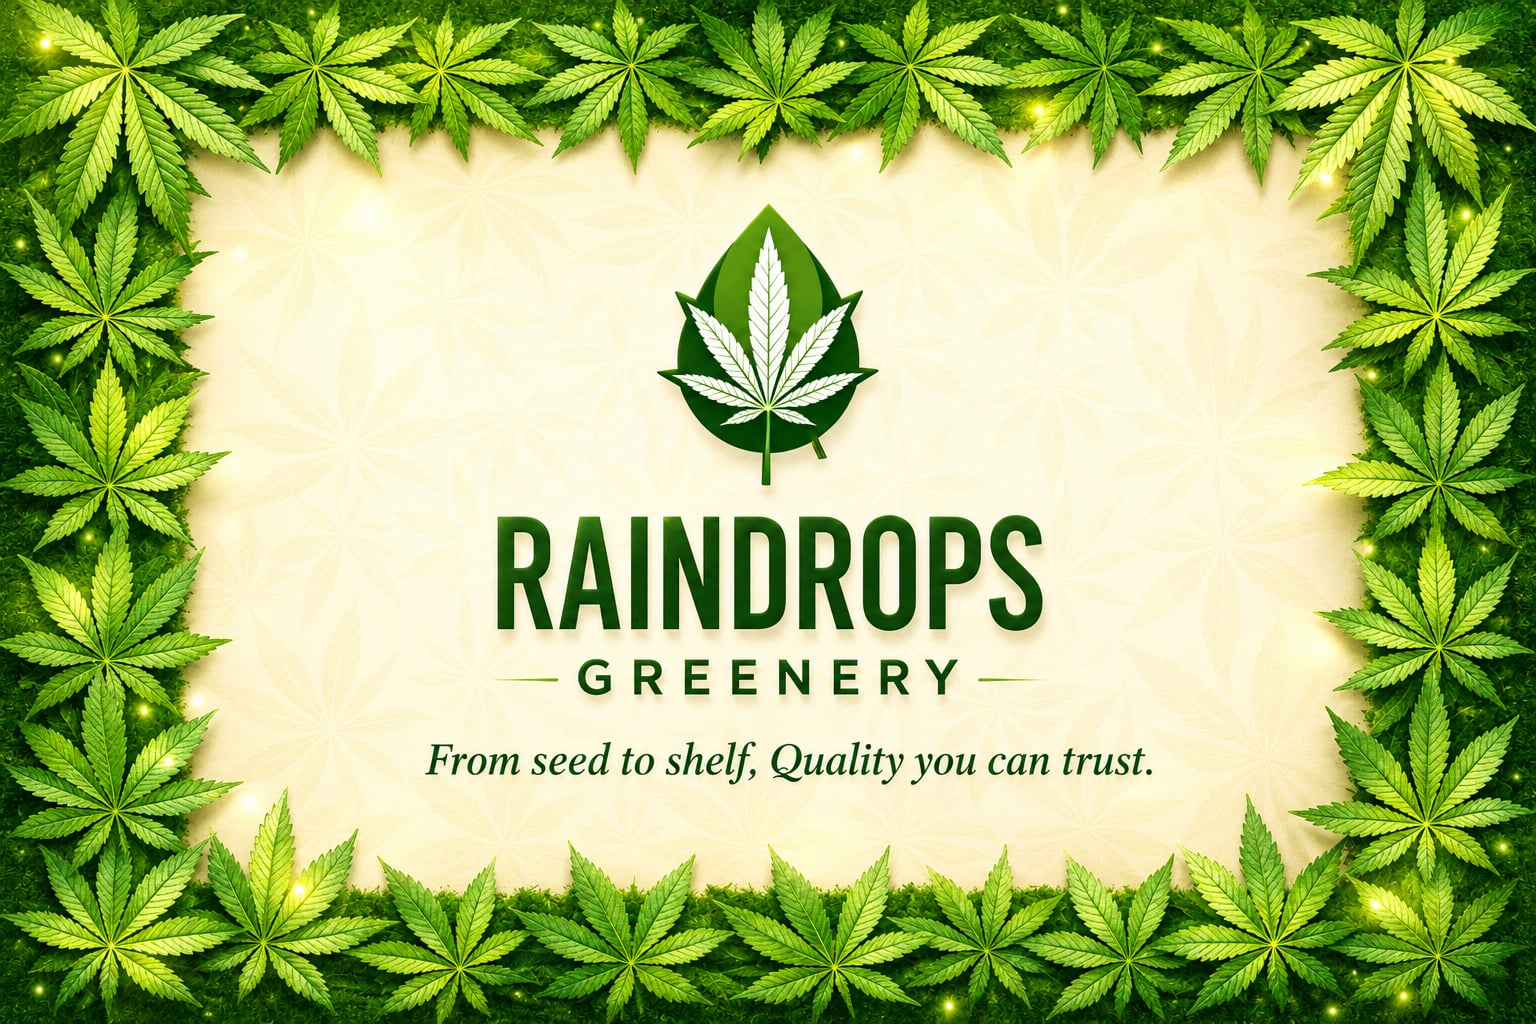
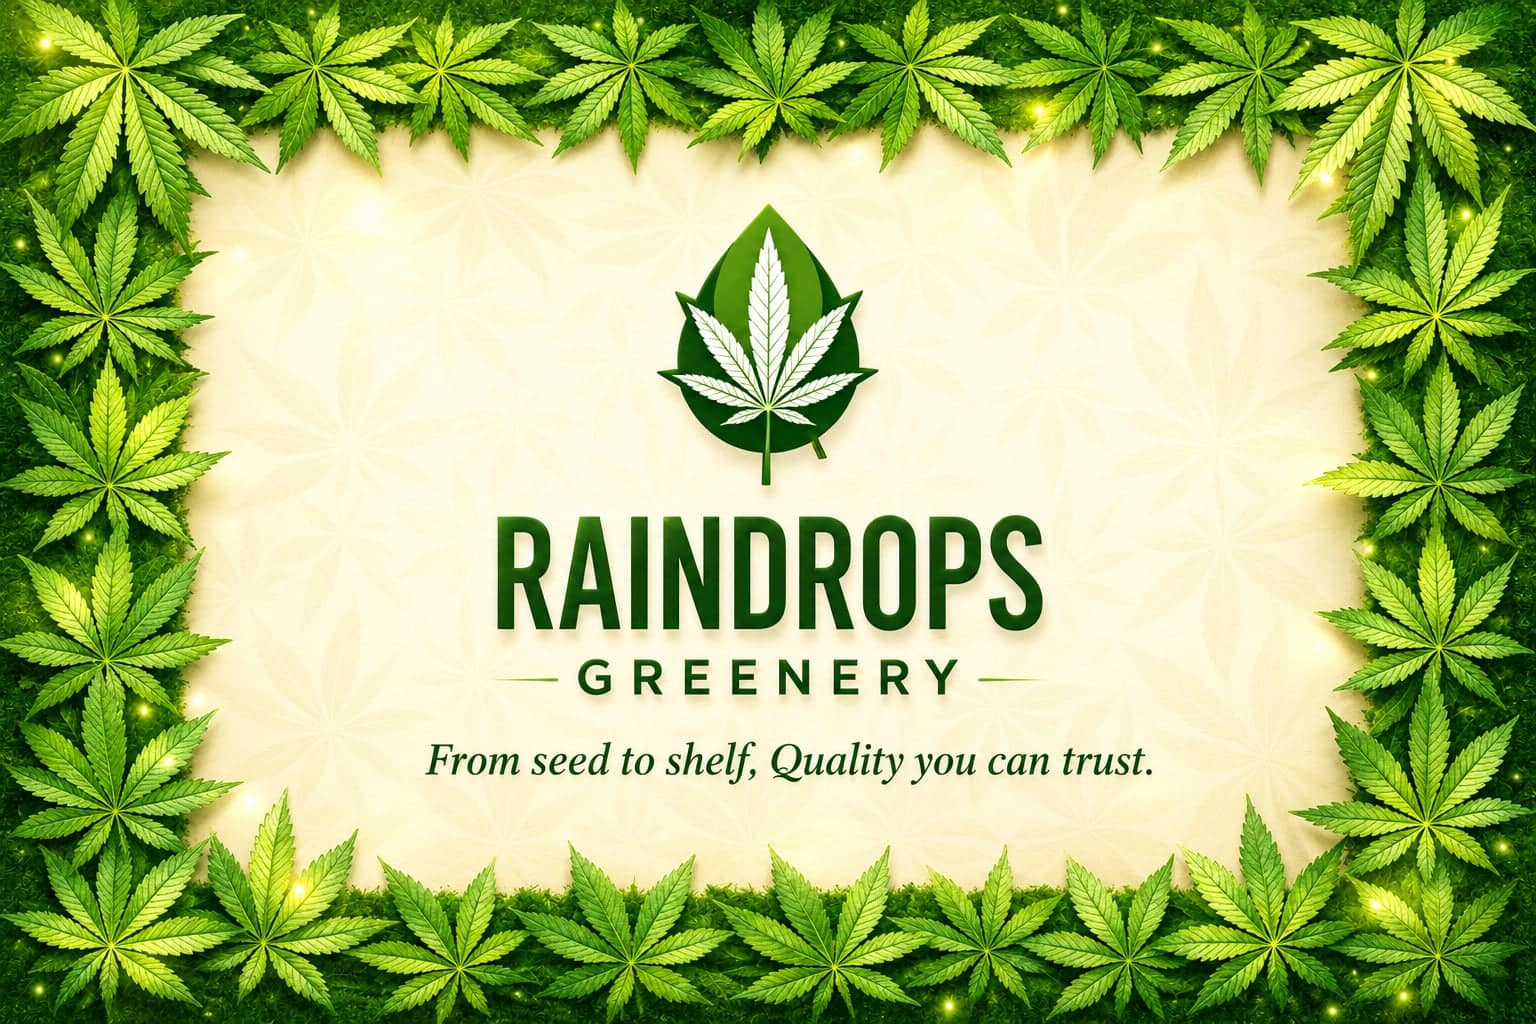
Pre-launch QA polish: performance + accessibility
From the pre-launch QA sweep — both approved optional bundles. No blockers.

Performance / smoothness:
- Compress heavy hero images: banner-drops1.jpg 360->230KB (-36%),
  heroPhoto.jpg (age-gate backdrop) 616->251KB (-59%) via sharp/mozjpeg.
- Drop wasted `priority` on the age-gate background image (it's a dim
  opacity-0.4 backdrop, and a no-op preload for returning visitors who skip
  the gate).
- Release the compositor layer on the ~12 scroll-reveal blocks after their
  one-shot reveal (will-change: auto) instead of pinning it permanently.
- Pause the hero Ken Burns drift while the hero is scrolled off-screen
  (IntersectionObserver -> .hero-paused), so there's no continuous GPU work
  (and on mobile, no permanently promoted full-viewport layer) when unseen.
- Remove a dead/misdirected DNS-prefetch (pointed at a host that doesn't
  serve product images; next/image proxies them same-origin anyway).
- Fix the menu free-gift pill so it can't wrap into a tall stadium capsule
  on small phones (rounded-2xl + items-start + tighter copy).

Accessibility (WCAG):
- New shared hooks/useModalA11y.ts: focus-into-dialog on open, Tab/Shift+Tab
  focus trap, Escape-to-close, body-scroll lock, and focus restore on close.
- Wired into the age gate (Escape only on the optional subscribe step — the
  21+ challenge stays non-dismissable), the product detail dialog, and the
  coverage cluster modal. Product dialog also gets role=dialog/aria-modal.
  (WCAG 2.1.1, 2.4.3, 4.1.2.)
[…]

diff --git a/hooks/useModalA11y.ts b/hooks/useModalA11y.ts
@@ -1,0 +1,106 @@
+'use client';
+
+import { useEffect, useRef, type RefObject } from 'react';
+
+const FOCUSABLE_SELECTOR =
+  'a[href],button:not([disabled]),input:not([disabled]),select:not([disabled]),textarea:not([disabled]),[tabindex]:not([tabindex="-1"])';
+
+/**
+ * Modal accessibility primitives, shared by the age gate, product detail
+ * dialog, and coverage cluster modal (pre-launch QA finding).
+ *
+ * When `active` is true it:
+ *   - moves focus into the dialog container on open;
+ *   - traps Tab / Shift+Tab inside the dialog;
+ *   - closes on Escape via `onEscape` (omit to disable — e.g. the age-gate
+ *     challenge, which must not be dismissable);
+ *   - optionally locks body scroll (default on);
+ *   - restores focus to the previously-focused element on close.
+ *
+ * `onEscape` is read through a ref so passing a fresh inline arrow each render
+ * does NOT re-run the effect (which would otherwise steal focus on every
+ * parent re-render). The effect re-runs only when `active`/`lockScroll` change.
+ *
+ * The container element must be focusable — give it `tabIndex={-1}`.
+ */
+export function useModalA11y(
+  active: boolean,
+  containerRef: RefObject<HTMLElement | null>,
+  options: { onEscape?: () => void; lockScroll?: boolean } = {}
+) {
+  const { onEscape, lockScroll = true } = options;
+  const onEscapeRef = useRef(onEscape);
+
+  useEffect(() => {
+    onEscapeRef.current = onEscape;
+  }, [onEscape]);
+
+  useEffect(() => {
+    if (!active || typeof document === 'undefined') return;
+    const container = containerRef.current;
+    const previouslyFocused = document.activeElement as HTMLElement | null;
+
+    const getFocusable = (): HTMLElement[] => {
+      if (!container) return [];
+      return Array.from(container.querySelectorAll<HTMLElement>(FOCUSABLE_SELECTOR)).filter(
+        (el) => el.offsetParent !== null
+      );
+    };
+
+    // Focus the dialog container itself (a screen reader then announces its
+    // label, and the first Tab lands on the first control). rAF so entrance
+    // animations have laid the element out before we move focus.
+    const raf = requestAnimationFrame(() => {
+      (container ?? getFocusable()[0])?.focus?.();
+    });
+
+    const onKeyDown = (event: KeyboardEvent) => {
+      if (event.key === 'Escape') {
+        if (onEscapeRef.current) {
+          event.preventDefault();
+          event.stopPropagation();
+          onEscapeRef.current();
+        }
+        return;
+      }
+      if (event.key !== 'Tab' || !container) return;
+      const list = getFocusable();
+      if (list.length === 0) {
+        event.preventDefault();
+        container.focus();
+        return;
+      }
+      const first = list[0];
+      const last = list[list.length - 1];
+      const activeEl = document.activeElement;
+      if (event.shiftKey) {
+        if (activeEl === first || activeEl === container || !container.contains(activeEl)) {
+          event.preventDefault();
+          last.focus();
+        }
+      } else if (activeEl === last) {
+        event.preventDefault();
+        first.focus();
+      }
+    };
+
+    document.addEventListener('keydown', onKeyDown, true);
+
+    let prevOverflow: string | undefined;
+    if (lockScroll) {
+      prevOverflow = document.body.style.overflow;
+      document.body.style.overflow = 'hidden';
+    }
+
+    return () => {
+      cancelAnimationFrame(raf);
+      document.removeEventListener('keydown', onKeyDown, true);
+      if (lockScroll) document.body.style.overflow = prevOverflow ?? '';
+      // Restore focus to whatever opened the modal (keyboard users don't lose
+      // their place). Guard in case that element is gone.
+      if (previouslyFocused && typeof previouslyFocused.focus === 'function') {
+        previouslyFocused.focus();
+      }
+    };
+  }, [active, containerRef, lockScroll]);
+}

diff --git a/components/HeroSlider.tsx b/components/HeroSlider.tsx
@@ -3,7 +3,7 @@
 import Image from 'next/image';
 import Link from 'next/link';
 import { AnimatePresence, motion } from 'framer-motion';
-import { ArrowLeft, ArrowRight, ChevronDown } from 'lucide-react';
+import { ArrowLeft, ArrowRight, ChevronDown, Pause, Play } from 'lucide-react';
 import { useCallback, useEffect, useRef, useState } from 'react';
 import SmokeLayer from '@/components/SmokeLayer';
 
@@ -59,6 +59,14 @@ const easeOut = [0.22, 1, 0.36, 1] as const;
 export default function HeroSlider({ slides, autoplayMs = AUTOPLAY_MS_DEFAULT }: Props) {
   const [index, setIndex] = useState(0);
   const [paused, setPaused] = useState(false);
+  // userPaused: explicit Pause button (WCAG 2.2.2). focused: keyboard focus is
+  // inside the carousel — pause so a slide can't swap out mid-interaction.
+  const [userPaused, setUserPaused] = useState(false);
+  const [focused, setFocused] = useState(false);
+  // inView: hero on-screen? Toggles .hero-paused to stop the Ken Burns drift
+  // (GPU compositor work) while the hero is scrolled out of view.
+  const [inView, setInView] = useState(true);
+  const sectionRef = useRef<HTMLElement | null>(null);
   const timerRef = useRef<ReturnType<typeof setTimeout> | null>(null);
 
   const goTo = useCallback((next: number) => {
@@ -69,13 +77,26 @@ export default function HeroSlider({ slides, autoplayMs = AUTOPLAY_MS_DEFAULT }:
   const prev = useCallback(() => goTo(index - 1), [goTo, index]);
 
   useEffect(() => {
-    if (paused || slides.length <= 1) return;
+    if (paused || userPaused || focused || slides.length <= 1) return;
     if (typeof window !== 'undefined' && window.matchMedia('(prefers-reduced-motion: reduce)').matches) return;
     timerRef.current = setTimeout(next, autoplayMs);
     return () => {
       if (timerRef.current) clearTimeout(timerRef.current);
     };
-  }, [autoplayMs, index, next, paused, slides.length]);
+  }, [autoplayMs, index, next, paused, userPaused, focused, slides.length]);
+
+  // Pause the hero Ken Burns drift while the hero is off-screen (no compositor
+  // work when it can't be seen). Defaults to running if IO is unavailable.
+  useEffect(() => {
+    const el = sectionRef.current;
+    if (!el || typeof IntersectionObserver === 'undefined') return;
+    const io = new IntersectionObserver(
+      (entries) => setInView(entries.some((e) => e.isIntersecting)),
+      { threshold: 0 }
+    );
+    io.observe(el);
+    return () => io.disconnect();
+  }, []);
 
   useEffect(() => {
     const handler = (event: KeyboardEvent) => {
@@ -118,11 +139,16 @@ export default function HeroSlider({ slides, autoplayMs = AUTOPLAY_MS_DEFAULT }:
 
   return (
     <section
-      className="rd-grain rd-vignette relative isolate w-full overflow-hidden bg-[color:var(--rd-ink)] text-[color:var(--rd-text)]"
+      ref={sectionRef}
+      className={`rd-grain rd-vignette relative isolate w-full overflow-hidden bg-[color:var(--rd-ink)] text-[color:var(--rd-text)] ${inView ? '' : 'hero-paused'}`}
       aria-roledescription="carousel"
       aria-label="Featured offers"
       onMouseEnter={() => setPaused(true)}
       onMouseLeave={() => setPaused(false)}
+      onFocusCapture={() => setFocused(true)}
+      onBlurCapture={(event) => {
+        if (!event.currentTarget.contains(event.relatedTarget as Node | null)) setFocused(false);
+      }}
       onTouchStart={onTouchStart}
       onTouchEnd={onTouchEnd}
     >
@@ -315,6 +341,18 @@ export default function HeroSlider({ slides, autoplayMs = AUTOPLAY_MS_DEFAULT }:
               <ArrowRight className="h-4 w-4" />
             </button>
           </div>
+
+          {/* Autoplay pause/play — always visible and keyboard-reachable so a
+              user can stop the auto-advancing hero (WCAG 2.2.2). */}
+          <button
+            type="button"
+            onClick={() => setUserPaused((value) => !value)}
+            aria-pressed={userPaused}
+            aria-label={userPaused ? 'Play slideshow' : 'Pause slideshow'}
+            className="absolute bottom-5 left-4 z-20 inline-flex h-9 w-9 items-center justify-center rounded-full border border-[color:var(--rd-paper)]/18 bg-[color:var(--rd-ink)]/55 text-[color:var(--rd-text-dim)] backdrop-blur-md transition hover:border-[color:var(--rd-glow)] hover:text-[color:var(--rd-glow)] sm:bottom-9"
+          >
+            {userPaused ? <Play className="h-4 w-4" /> : <Pause className="h-4 w-4" />}
+          </button>
         </>
       )}
 

diff --git a/components/MenuExplorer.tsx b/components/MenuExplorer.tsx
@@ -5,7 +5,7 @@ import Link from 'next/link';
 import { AnimatePresence, motion } from 'framer-motion';
 import { ArrowRight, Cannabis, Check, Cigarette, Cookie, Filter, RotateCcw, Search, Share2, SlidersHorizontal, Sparkles, X } from 'lucide-react';
 import type { LucideIcon } from 'lucide-react';
-import { Fragment, useEffect, useMemo, useState } from 'react';
+import { Fragment, useEffect, useMemo, useRef, useState } from 'react';
 import SiteChrome, { OrderButton } from '@/components/SiteChrome';
 import Breadcrumbs from '@/components/Breadcrumbs';
 import { menuCounts, menuProducts, type LiveMenuProduct } from '@/lib/menu';
@@ -43,6 +43,7 @@ const STRAIN_BADGE: Record<StrainTag, string> = {
 };
 import { checkout } from '@/lib/site-data';
 import { PRODUCT_BLUR_DATA_URL } from '@/lib/image-blur';
+import { useModalA11y } from '@/hooks/useModalA11y';
 
 type CategoryFilter = 'All' | LiveMenuProduct['category'];
 type SortMode = 'featured' | 'price-low' | 'price-high' | 'potency-high' | 'name';
@@ -238,6 +239,10 @@ function ProductCard({
 
 function ProductDetailDialog({ product, onClose }: { product: LiveMenuProduct; onClose: () => void }) {
   const [copied, setCopied] = useState(false);
+  // Modal a11y: focus into the dialog, trap Tab, Escape to close, lock scroll,
+  // and restore focus to the product card on close (pre-launch QA finding).
+  const dialogRef = useRef<HTMLDivElement>(null);
+  useModalA11y(true, dialogRef, { onEscape: onClose });
   const potency = getPotencyLabel(product);
   const effects = inferEffects(product);
   // Build detail rows conditionally so we only show fields the customer
@@ -296,10 +301,15 @@ function ProductDetailDialog({ product, onClose }: { product: LiveMenuProduct; o
       onClick={onClose}
     >
       <motion.div
+        ref={dialogRef}
+        tabIndex={-1}
+        role="dialog"
+        aria-modal="true"
+        aria-label={`${product.name} — product details`}
         initial={{ opacity: 0, y: 24, scale: 0.97 }}
         animate={{ opacity: 1, y: 0, scale: 1 }}
         exit={{ opacity: 0, y: 24, scale: 0.97 }}
-        className="max-h-[100dvh] w-full max-w-5xl overflow-y-auto border border-[color:var(--rd-paper)]/10 bg-[color:var(--rd-ink-soft)] text-[color:var(--rd-text)] shadow-[0_40px_120px_rgba(0,0,0,0.5)] sm:max-h-[92vh] sm:rounded-3xl"
+        className="max-h-[100dvh] w-full max-w-5xl overflow-y-auto border border-[color:var(--rd-paper)]/10 bg-[color:var(--rd-ink-soft)] text-[color:var(--rd-text)] shadow-[0_40px_120px_rgba(0,0,0,0.5)] outline-none sm:max-h-[92vh] sm:rounded-3xl"
         onClick={(event) => event.stopPropagation()}
       >
         <div className="grid lg:grid-cols-[0.9fr_1.1fr]">
@@ -609,9 +619,9 @@ export default function MenuExplorer({ initialCategory, initialProductId, initia
             {/* Free-gift reinforcement — the hero "Claim free weed gift" CTA
                 lands here, so confirm the gift is automatic with any order
                 (no separate claim form needed). */}
-            <p className="mt-5 inline-flex items-center gap-2 rounded-full border border-[color:var(--rd-glow)]/30 bg-[color:var(--rd-glow)]/10 px-4 py-2 text-sm font-medium text-[color:var(--rd-text)]">
-              <Sparkles className="h-4 w-4 shrink-0 text-[color:var(--rd-glow)]" />
-              Free pre-roll gift auto-added to every order — just check out.
+            <p className="mt-5 inline-flex items-start gap-2 rounded-2xl border border-[color:var(--rd-glow)]/30 bg-[color:var(--rd-glow)]/10 px-4 py-2 text-sm font-medium text-[color:var(--rd-text)]">
+              <Sparkles className="mt-0.5 h-4 w-4 shrink-0 text-[color:var(--rd-glow)]" />
+              Free pre-roll gift added to every order.
             </p>
           </div>
           <div className="grid grid-cols-3 gap-2 sm:gap-3">

diff --git a/components/SiteChrome.tsx b/components/SiteChrome.tsx
@@ -5,7 +5,8 @@ import Link from 'next/link';
 import { AnimatePresence, motion } from 'framer-motion';
 import { ArrowRight, Clock, Mail, Phone, ShieldCheck, ShoppingBag } from 'lucide-react';
 import { InstagramIcon } from '@/components/SocialIcons';
-import { useEffect, useState } from 'react';
+import { useEffect, useRef, useState } from 'react';
+import { useModalA11y } from '@/hooks/useModalA11y';
 import NewsletterForm from '@/components/NewsletterForm';
 import OpenStatus from '@/components/OpenStatus';
 import BackToTop from '@/components/BackToTop';
@@ -106,6 +107,16 @@ function AgeGate() {
 
   const close = () => setPhase('hidden');
 
+  // Modal a11y: focus into the gate, trap Tab, restore focus on close. Escape
+  // only applies on the optional subscribe step (= "skip"); the 21+ challenge
+  // itself must not be Escape-dismissable. Scroll lock is handled by the
+  // existing effect above, so lockScroll is off here to avoid double-locking.
+  const dialogRef = useRef<HTMLDivElement>(null);
+  useModalA11y(showing, dialogRef, {
+    onEscape: phase === 'subscribe' ? close : undefined,
+    lockScroll: false
+  });
+
   const subscribe = async (event: React.FormEvent<HTMLFormElement>) => {
     event.preventDefault();
     if (subscribeStatus === 'loading' || subscribeStatus === 'success') return;
@@ -152,7 +163,6 @@ function AgeGate() {
               src="/assets/heroPhoto.jpg"
               alt=""
               fill
-              priority
               sizes="100vw"
               className="object-cover opacity-40"
             />
@@ -160,11 +170,13 @@ function AgeGate() {
           </div>
 
           <motion.div
+            ref={dialogRef}
+            tabIndex={-1}
             initial={{ opacity: 0, y: 24, scale: 0.97 }}
             animate={{ opacity: 1, y: 0, scale: 1 }}
             exit={{ opacity: 0, scale: 0.97 }}
             transition={{ duration: 0.6, ease: [0.22, 1, 0.36, 1] }}
-            className="relative max-h-[92dvh] w-full max-w-lg overflow-y-auto text-center"
+            className="relative max-h-[92dvh] w-full max-w-lg overflow-y-auto text-center outline-none"
           >
             <div className="mx-auto mb-4 flex h-14 w-14 items-center justify-center overflow-hidden rounded-full border border-[color:var(--rd-amber)]/40 shadow-[0_18px_40px_rgba(0,0,0,0.45)]">
               <Image src="/assets/logo.jpg" width={80} height={80} alt="Raindrops Greenery logo" className="h-full w-full object-cover" />

diff --git a/app/globals.css b/app/globals.css
@@ -492,11 +492,13 @@ textarea:focus:not(:focus-visible) {
   opacity: 0;
   transform: translateY(20px);
   transition: opacity 0.55s var(--ease-out), transform 0.55s var(--ease-out);
-  will-change: opacity, transform;
 }
 .rd-reveal--in {
   opacity: 1;
   transform: translateY(0);
+  /* One-shot reveal is done — release the compositor layer so ~12 of these
+     on the home page don't sit pinned in GPU memory during scroll. */
+  will-change: auto;
 }
 @media (prefers-reduced-motion: reduce) {
   .rd-reveal { opacity: 1; transform: none; transition: none; }
@@ -746,3 +748,8 @@ textarea:focus:not(:focus-visible) {
 @media (prefers-reduced-motion: reduce) {
   .hero-kenburns { animation: none !important; transform: none !important; }
 }
+/* Pause the hero drift while the hero is scrolled off-screen (the .hero-paused
+   class is toggled by an IntersectionObserver in HeroSlider). Stops continuous
+   compositor work — and on mobile a permanently promoted full-viewport layer —
+   the moment the hero leaves the viewport. */
+.hero-paused .hero-kenburns { animation-play-state: paused !important; }

diff --git a/components/CoverageMap.tsx b/components/CoverageMap.tsx
@@ -8,6 +8,7 @@ import { AnimatePresence, motion } from 'framer-motion';
 import { COVERAGE } from '@/lib/coverage';
 import { checkZip } from '@/lib/zip-utils';
 import ZipSearch from '@/components/ZipSearch';
+import { useModalA11y } from '@/hooks/useModalA11y';
 
 /* =====================================================================
    Raindrops coverage — V9 simplification (per client review).
@@ -77,6 +78,10 @@ export default function CoverageMap({ compact = false, externalActiveCluster, on
   // the load ~400px early so it's ready by the time they arrive.
   const mapWrapRef = useRef<HTMLDivElement | null>(null);
   const [mapInView, setMapInView] = useState(false);
+  // Cluster detail modal a11y: focus trap, Escape-to-close, scroll lock, and
+  // focus restore on close (pre-launch QA finding).
+  const clusterModalRef = useRef<HTMLDivElement>(null);
+  useModalA11y(openCluster !== null, clusterModalRef, { onEscape: () => setOpenCluster(null) });
   useEffect(() => {
     const el = mapWrapRef.current;
     if (!el) return;
@@ -327,12 +332,14 @@ export default function CoverageMap({ compact = false, externalActiveCluster, on
                 aria-label={`${c.name} delivery details`}
               >
                 <motion.div
+                  ref={clusterModalRef}
+                  tabIndex={-1}
                   initial={{ y: 40, opacity: 0, scale: 0.97 }}
                   animate={{ y: 0, opacity: 1, scale: 1 }}
                   exit={{ y: 40, opacity: 0, scale: 0.97 }}
                   transition={{ duration: 0.45, ease: easeOut }}
                   onClick={(e) => e.stopPropagation()}
-                  className="relative flex max-h-[88vh] w-full max-w-lg flex-col rounded-t-3xl border border-[color:var(--rd-paper)]/14 bg-[color:var(--rd-ink-soft)] text-[color:var(--rd-text)] shadow-[0_40px_120px_rgba(0,0,0,0.55)] sm:max-h-[80vh] sm:rounded-3xl"
+                  className="relative flex max-h-[88vh] w-full max-w-lg flex-col rounded-t-3xl border border-[color:var(--rd-paper)]/14 bg-[color:var(--rd-ink-soft)] text-[color:var(--rd-text)] shadow-[0_40px_120px_rgba(0,0,0,0.55)] outline-none sm:max-h-[80vh] sm:rounded-3xl"
                 >
                   {/* Sticky header — close button doesn't overlap text */}
                   <div className="relative flex items-start gap-3 px-5 pt-5 pb-3 sm:px-7 sm:pt-7">

diff --git a/app/layout.tsx b/app/layout.tsx
@@ -389,8 +389,11 @@ export default function RootLayout({ children }: { children: React.ReactNode }) 
             but the explicit hint helps in some browsers and crawlers). */}
         <link rel="preconnect" href="https://fonts.googleapis.com" />
         <link rel="preconnect" href="https://fonts.gstatic.com" crossOrigin="anonymous" />
-        {/* DNS-prefetch the Flowhub product image CDN so menu thumbs warm up. */}
-        <link rel="dns-prefetch" href="https://storage.googleapis.com" />
+        {/* No product-image CDN preconnect needed: next/image proxies every
+            menu thumbnail through same-origin /_next/image, so the browser
+            never opens a direct connection to the upstream S3 host. (The prior
+            hint pointed at storage.googleapis.com, which isn't even the host
+            that serves product images — it was a no-op.) */}
         {/*
           AI-crawler discovery hints. /llms.txt + /llms-full.txt follow
           the llmstxt.org spec and are the highest-fidelity surface for